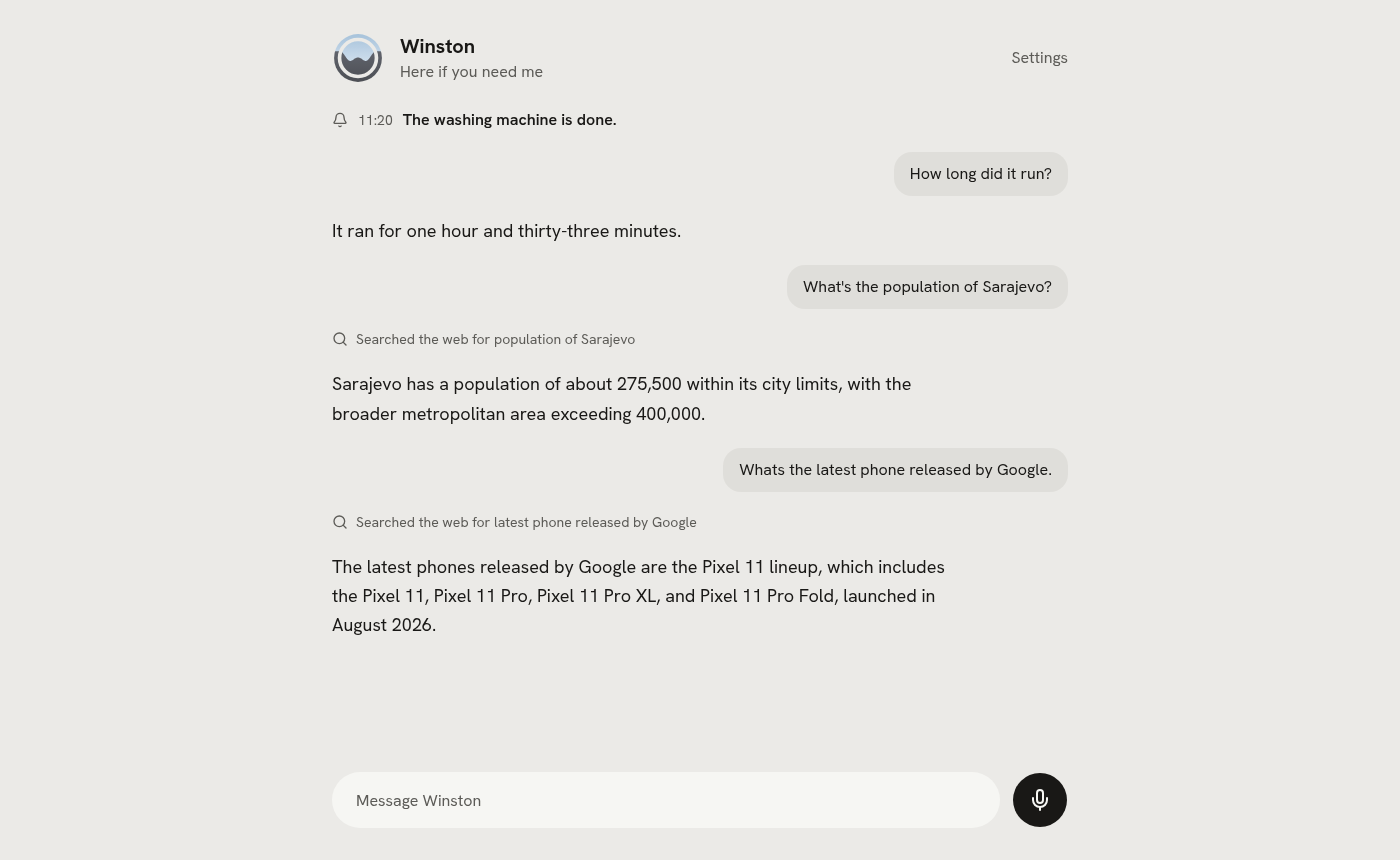
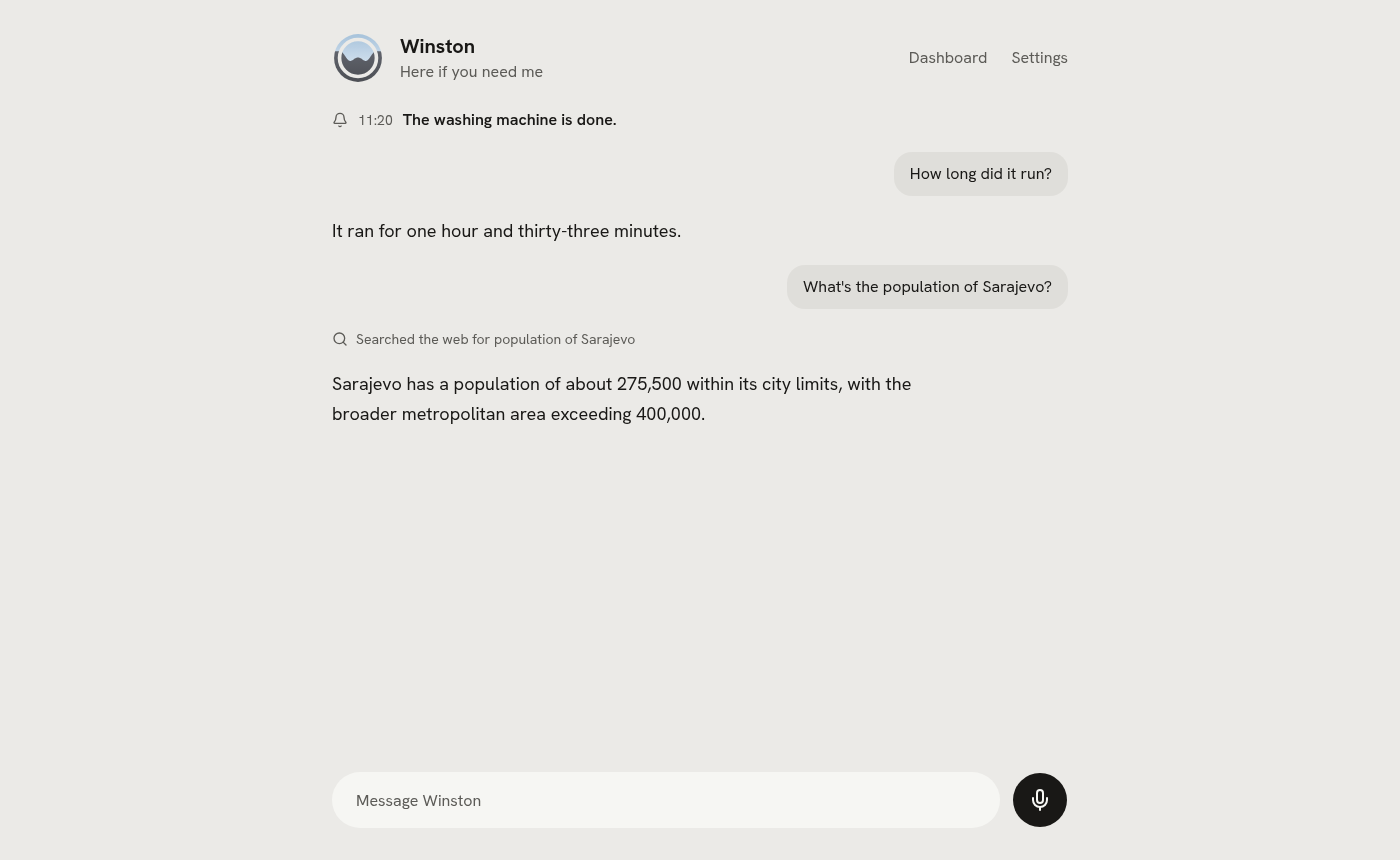
Dashboard mode: Winston full screen for a wall tablet
/dashboard shows the logo large as the talk button, a line for his state,
the last exchange while he is busy (and 20 s after) and announcements
across the screen for a minute or until tapped. The page keeps the screen
awake where the browser allows it. The Talk page links to it. Docs say how
to put it in a Home Assistant Webpage card; screenshots now come from a
scripted feed.

Changed region(s): [[0.2457, 0.6047, 0.6757, 0.7558], [0.5221, 0.5442, 0.7371, 0.5744], [0.645, 0.0605, 0.7064, 0.0907]]

diff --git a/web/src/pages/dashboard.tsx b/web/src/pages/dashboard.tsx
@@ -1,0 +1,95 @@
+import { useCallback, useEffect, useState } from 'react'
+import { Bell } from 'lucide-react'
+import { Link } from 'react-router'
+import { toast } from 'sonner'
+import { STATE_LABEL, clock, lastChange, presence, useLive, type Item } from '@/api/live'
+import { Presence } from '@/components/presence'
+import { useVoice } from '@/hooks/use-voice'
+import { useWakeLock } from '@/hooks/use-wake-lock'
+
+const LINGER_SECS = 20 // the last exchange stays up this long after he goes idle
+const ANNOUNCE_SECS = 60 // an announcement holds the screen this long unless tapped away
+const TAIL = 240 // characters of a long reply kept on screen, the newest ones
+
+type Said = Extract<Item, { kind: 'user' | 'reply' }>
+
+/** The newest thing you said and his answer to it, if he has started one. */
+function lastExchange(items: Item[]): { user?: Said; reply?: Said } {
+  const reply = items.findLastIndex((item) => item.kind === 'reply' && item.text.trim() !== '')
+  const user = items.findLastIndex((item) => item.kind === 'user')
+  return {
+    user: user >= 0 ? (items[user] as Said) : undefined,
+    reply: reply > user ? (items[reply] as Said) : undefined,
+  }
+}
+
+const tail = (text: string) => (text.length > TAIL ? `...${text.slice(-TAIL).replace(/^\S*\s/, '')}` : text)
+
+/** Template: dashboard. Full screen for a wall tablet: the mark large (it is the talk button), one
+ * line for his state, his words while he speaks, announcements taking the screen. */
+export default function DashboardPage() {
+  const feed = useLive()
+  const [now, setNow] = useState(() => Date.now())
+  const [dismissed, setDismissed] = useState('')
+  const onVoiceError = useCallback((message: string) => toast.error(message), [])
+  const { status: voice, start, stop } = useVoice(onVoiceError)
+  useWakeLock()
+
+  useEffect(() => {
+    const timer = setInterval(() => setNow(Date.now()), 1000)
+    return () => clearInterval(timer)
+  }, [])
+
+  const state = presence(feed, now)
+  const seconds = now / 1000
+  const announcement = feed.items.findLast((item) => item.kind === 'announcement')
+  const showAnnouncement =
+    announcement?.kind === 'announcement' && announcement.id !== dismissed && seconds - announcement.ts < ANNOUNCE_SECS
+  const recent = state !== 'idle' || seconds - lastChange(feed) < LINGER_SECS
+  const { user, reply } = recent ? lastExchange(feed.items) : {}
+  const line = voice === 'connecting' ? 'Connecting' : voice === 'off' && state === 'idle' ? 'Tap to talk' : STATE_LABEL[state]
+
+  return (
+    <div className="relative flex h-svh flex-col items-center overflow-hidden px-6 text-center">
+      <Link to="/" className="absolute top-6 right-6 text-muted-foreground hover:text-foreground">
+        Close
+      </Link>
+
+      {showAnnouncement ? (
+        <button
+          type="button"
+          onClick={() => setDismissed(announcement.id)}
+          aria-label="Dismiss the announcement"
+          className="flex flex-1 flex-col items-center justify-center gap-8"
+        >
+          <Presence state={state} className="size-[min(22svh,40vw)]" />
+          <span className="flex items-center gap-3 text-2xl text-muted-foreground">
+            <Bell className="size-7" />
+            {clock(announcement.ts)}
+          </span>
+          <p className="max-w-5xl text-6xl/tight font-semibold text-balance">{announcement.text}</p>
+        </button>
+      ) : (
+        <>
+          <div className="flex flex-1 items-end justify-center pt-16 pb-8">
+            <button
+              type="button"
+              aria-label={voice === 'off' ? 'Talk' : 'Stop talking'}
+              aria-pressed={voice !== 'off'}
+              disabled={voice === 'connecting'}
+              onClick={() => void (voice === 'off' ? start() : stop())}
+              className="rounded-full outline-none focus-visible:ring-4 focus-visible:ring-ring"
+            >
+              <Presence state={state} className="size-[min(36svh,60vw)]" />
+            </button>
+          </div>
+          <p className="text-3xl text-muted-foreground">{line}</p>
+          <div className="flex max-w-5xl flex-1 flex-col items-center gap-4 pt-8">
+            {user && <p className="text-2xl text-muted-foreground">{tail(user.text)}</p>}
+            {reply && <p className="text-4xl/snug text-balance">{tail(reply.text.trim())}</p>}
+          </div>
+        </>
+      )}
+    </div>
+  )
+}

diff --git a/web/src/pages/talk.tsx b/web/src/pages/talk.tsx
@@ -19,19 +19,12 @@ import {
 import { Link } from 'react-router'
 import { toast } from 'sonner'
 import { $api, errorText } from '@/api/client'
-import { presence, useChat, useLive, type Item, type PresenceState } from '@/api/live'
+import { STATE_LABEL, clock, presence, useChat, useLive, type Item } from '@/api/live'
 import { Presence } from '@/components/presence'
 import { Button } from '@/components/ui/button'
 import { Input } from '@/components/ui/input'
 import { useVoice } from '@/hooks/use-voice'
 import { cn } from '@/lib/utils'
-
-const STATE_LABEL: Record<PresenceState, string> = {
-  idle: 'Here if you need me',
-  listening: 'Listening',
-  thinking: 'Thinking',
-  speaking: 'Speaking',
-}
 
 const TOOL_ICONS: [(base: string) => boolean, LucideIcon][] = [
   [(b) => b.startsWith('hass'), Lightbulb],
@@ -49,8 +42,6 @@ function ToolIcon({ name, running }: { name: string; running: boolean }) {
   const Icon = TOOL_ICONS.find(([match]) => match(base))?.[1] ?? Wrench
   return <Icon className="size-4 shrink-0" />
 }
-
-const clock = (ts: number) => new Date(ts * 1000).toLocaleTimeString([], { hour: '2-digit', minute: '2-digit' })
 
 function Line({ item }: { item: Item }) {
   switch (item.kind) {
@@ -127,6 +118,9 @@ export default function TalkPage() {
           <span className="text-muted-foreground">{STATE_LABEL[state]}</span>
         </div>
         <nav className="ml-auto flex gap-6">
+          <Link to="/dashboard" className="text-muted-foreground hover:text-foreground">
+            Dashboard
+          </Link>
           <Link to="/status" className="text-muted-foreground hover:text-foreground">
             Settings
           </Link>

diff --git a/web/src/api/live.ts b/web/src/api/live.ts
@@ -3,6 +3,16 @@ import { $api, type LiveEvent } from './client'
 
 export type PresenceState = NonNullable<LiveEvent['state']>
 
+export const STATE_LABEL: Record<PresenceState, string> = {
+  idle: 'Here if you need me',
+  listening: 'Listening',
+  thinking: 'Thinking',
+  speaking: 'Speaking',
+}
+
+/** A server timestamp (seconds) as a local time of day. */
+export const clock = (ts: number) => new Date(ts * 1000).toLocaleTimeString([], { hour: '2-digit', minute: '2-digit' })
+
 export type Item =
   | { kind: 'user'; id: string; text: string; channel: string }
   | { kind: 'reply'; id: string; text: string; done: boolean }
@@ -59,6 +69,11 @@ export function presence(feed: Feed, now: number): PresenceState {
   const latest = Object.values(feed.states).sort((a, b) => b.ts - a.ts)[0]
   if (!latest || (latest.state !== 'idle' && now / 1000 - latest.ts > STALE_SECS)) return 'idle'
   return latest.state
+}
+
+/** When any channel last changed state, in server seconds; 0 if none has. */
+export function lastChange(feed: Feed): number {
+  return Math.max(0, ...Object.values(feed.states).map((s) => s.ts))
 }
 
 /** The live feed: recent history on connect, then events as they happen. A reconnect resends the

diff --git a/web/src/hooks/use-wake-lock.ts b/web/src/hooks/use-wake-lock.ts
@@ -1,0 +1,22 @@
+import { useEffect } from 'react'
+
+/** Keeps the screen on while the page is visible, for a wall tablet. Browsers only allow it on
+ * HTTPS or localhost; elsewhere it quietly does nothing. */
+export function useWakeLock() {
+  useEffect(() => {
+    let lock: WakeLockSentinel | undefined
+    const request = () => {
+      if (document.visibilityState !== 'visible' || !('wakeLock' in navigator)) return
+      navigator.wakeLock.request('screen').then(
+        (sentinel) => (lock = sentinel),
+        () => undefined,
+      )
+    }
+    request()
+    document.addEventListener('visibilitychange', request)
+    return () => {
+      document.removeEventListener('visibilitychange', request)
+      void lock?.release()
+    }
+  }, [])
+}

diff --git a/web/src/App.tsx b/web/src/App.tsx
@@ -4,6 +4,7 @@ import { SidebarInset, SidebarProvider } from '@/components/ui/sidebar'
 import AssistantPage from '@/pages/assistant'
 import BrainPage from '@/pages/brain'
 import ChannelsPage from '@/pages/channels'
+import DashboardPage from '@/pages/dashboard'
 import EnginePage from '@/pages/engine'
 import EnginesPage from '@/pages/engines'
 import HomeAssistantPage from '@/pages/home-assistant'
@@ -30,6 +31,7 @@ export default function App() {
   return (
     <Routes>
       <Route path="/" element={<TalkPage />} />
+      <Route path="/dashboard" element={<DashboardPage />} />
       <Route element={<SettingsLayout />}>
         <Route path="/status" element={<StatusPage />} />
         <Route path="/models" element={<ModelsPage />} />

diff --git a/docs/decisions.md b/docs/decisions.md
@@ -72,3 +72,4 @@ One line per deviation from `WINSTON_PLAN.md`: date, what changed, why.
 - 2026-09-23: Home Assistant integration planned as a conversation agent plus entities, installable from HACS, after dashboard mode. It is a text channel into Winston's brain; the voice path stays with Winston because HA's conversation API is text, one turn at a time, and would drop the cloned voice, streaming and barge-in. `docs/voice-pe.md`'s "never an Assist replacement" still holds.
 - 2026-09-23: Talk page built on a live feed in winstond (`core/live.py`, `GET/POST /api/live`), web chat as a channel inside winstond (`channels/web.py`, `POST /api/chat`), and `@pipecat-ai/client-js` 1.13.1 with `@pipecat-ai/small-webrtc-transport` 1.10.8 for the talk button (the prebuilt client's own libraries), its offer proxied through `/api/voice/offer`. Settings moved from `/` to `/status` and friends. Pipecat pushes function-call frames both upstream and downstream as two frames, so the feed dedupes tool events by call id, as the tool log already did. Gotcha: Chromium's `scrollIntoView` now returns a Promise, so an arrow-bodied `useEffect` returning it crashed React on unmount.
 - 2026-09-23: Winston's logo chosen and built (`docs/identity.md`): a disc split by a soft W, sky above and charcoal below, an inset rim, a gentle shade in each field. Chosen by Aldin over several rounds of sketches. Rejected: an even-weight circle and line ("boring", "barely a logo"), calligraphic pen strokes ("cheap"), green ("android-y, no identity"), navy and gold ("too heavy, luxury"), near-black that vanished on dark backgrounds, and any bending of the W while speaking (it read as wonky); speaking is a glow in the lower field instead. The ring-of-dots placeholder is gone; the UI guide's one-accent and no-gradient rules make the logo the one exception. Announcing is designed but waits for a live announcing state.
+- 2026-09-23: Dashboard mode built at `/dashboard` (plan UI track step 2). The logo is the talk button; only the last exchange is shown, not the scrolling conversation, and it clears 20 s after he goes idle so a wall screen rests on the logo; announcements hold the screen 60 s. Screen Wake Lock keeps a tablet awake (HTTPS or localhost only). Docs screenshots now come from a scripted live feed in Playwright, so they show a fixed example conversation rather than whatever the house said last.

diff --git a/docs/plan.md b/docs/plan.md
@@ -197,7 +197,7 @@ The web UI started as settings only. Winston himself moves to the front; setting
 3. **Home Assistant integration, installable from HACS.** Winston as a conversation agent (HA's Assist chat and the HA app reach Winston's brain, text only; voice stays with Winston), his state as entities, later a native card. Needs winstond reachable from HA on the LAN with a token.
 - Winston's logo is his presence (built 2026-09-23, `docs/identity.md`): it replaced the placeholder ring of dots on the Talk page and in the favicon.
 - Browsers only give the mic to HTTPS pages or localhost, so talking from a phone or tablet needs HTTPS on the LAN (a reverse proxy with a certificate). Showing the dashboard does not.
-- **Status: Talk page built 2026-09-23.** Typed turns stream into the page with tool lines (a follow-up to an announcement answered from its context, 2.3 s; a web search turn 5.3 s); the talk button connects through winstond and the voice greeting drives the presence to speaking (checked in headless Chromium with a fake mic). Not yet checked: a spoken turn with a real mic showing in the feed. Discord and `winston talk` do not publish to the feed yet.
+- **Status: Talk page and dashboard mode built 2026-09-23.** Dashboard at `/dashboard`: the logo large as the talk button, a state line, the last exchange while he is busy and 20 s after, announcements full screen for 60 s or until tapped; checked in headless Chromium in landscape and portrait against a scripted feed, not yet on a real wall tablet. Typed turns stream into the page with tool lines (a follow-up to an announcement answered from its context, 2.3 s; a web search turn 5.3 s); the talk button connects through winstond and the voice greeting drives the presence to speaking (checked in headless Chromium with a fake mic). Not yet checked: a spoken turn with a real mic showing in the feed. Discord and `winston talk` do not publish to the feed yet.
 
 ---
 

diff --git a/docs/running.md b/docs/running.md
@@ -34,6 +34,19 @@ after `channels.web.session_idle_mins` (30) and after a settings save. Browsers 
 few hundred events while winstond runs; it is not a transcript archive (the tool log is the record).
 
 <picture>
+  <source media="(prefers-color-scheme: dark)" srcset="images/dashboard-dark.png">
+  <img src="images/dashboard-light.png" alt="Dashboard mode: Winston's logo large, speaking, with the question and his answer under it" width="720">
+</picture>
+
+Dashboard mode, at http://localhost:8700/dashboard (the Dashboard link on the Talk page), is the
+same feed full screen for a wall tablet. Tap the logo to talk and again to hang up. The line under it
+follows his state; what you said and his answer show while he is busy and for 20 seconds after. An
+announcement takes the screen for a minute, or until you tap it. The page asks the browser to keep
+the screen on, which like the mic only works on `localhost` or HTTPS. To show it in Home Assistant,
+add a Webpage card pointing at the dashboard URL; if Home Assistant itself is on HTTPS, the browser
+blocks a plain `http://` page inside it, so Winston needs HTTPS too.
+
+<picture>
   <source media="(prefers-color-scheme: dark)" srcset="images/status-dark.png">
   <img src="images/status-light.png" alt="The Status page: engines, their health and the GPU" width="720">
 </picture>

diff --git a/docs/identity.md b/docs/identity.md
@@ -2,8 +2,8 @@
 
 <img src="images/logo.svg" alt="Winston's logo" width="120">
 
-Winston's logo is also his presence: the mark in the Talk page header, the favicon, later the thing that
-fills a wall screen in dashboard mode and the light pattern on a Voice PE. Every page draws him through
+Winston's logo is also his presence: the mark in the Talk page header, the talk button that fills a
+wall screen in dashboard mode, the favicon, and later the light pattern on a Voice PE. Every page draws him through
 one component, `web/src/components/presence.tsx`, so he looks and moves the same everywhere.
 
 ## The mark
@@ -42,7 +42,7 @@ a still. Once Winston is idle and settled the animation stops, so an idle page c
 ## Where it shows
 
 - Talk page header, next to the name and the state.
+- Dashboard mode, large, as the talk button.
 - The browser tab (favicon) and the README.
-- Planned: dashboard mode, large, as the talk button; a Home Assistant card through the planned
-  integration (`docs/plan.md`); the Voice PE's 12 lights, upper lights sky and lower lights charcoal,
+- Planned: a Home Assistant card through the planned integration (`docs/plan.md`); the Voice PE's 12 lights, upper lights sky and lower lights charcoal,
   the lower ones brightening when he speaks (`docs/voice-pe.md`).

diff --git a/docs/ui-guide.md b/docs/ui-guide.md
@@ -1,6 +1,6 @@
 # UI guide
 
-The web UI has two areas. **Winston** is the front: the Talk page and, later, dashboard mode. It is
+The web UI has two areas. **Winston** is the front: the Talk page and dashboard mode. It is
 where you talk to him and see what he did. **Settings** is behind it: status, models, engines and the
 config forms. Both use one component library and no hand-written CSS beyond theme tokens.
 
@@ -35,7 +35,10 @@ transport), connecting through winstond to the voice channel.
 - His presence is his logo, one component, `Presence`, driven by his state (idle, listening,
   thinking, speaking); see [identity](identity.md). Pages never draw their own version of it.
 - Voice and typing sit side by side at the bottom: a text field and one round talk button.
-- Links to Settings are plain text at the top right, not a sidebar.
+- Links to Dashboard and Settings are plain text at the top right, not a sidebar.
+- Dashboard mode shows the logo large as the talk button, one line for his state, the last exchange
+  in large type and announcements across the screen; a plain Close link at the top right is its only
+  control besides the logo.
 
 ## Settings
 

diff --git a/README.md b/README.md
@@ -22,6 +22,8 @@ be swapped for a hosted service when that suits you better.
   (measured headless; barge-in timing is not measured yet).
 - **A Talk page.** Type or talk to Winston in the browser and see what he heard, said and did,
   announcements included; his logo moves as he listens, thinks and speaks. Settings sit behind it.
+- **A wall dashboard.** Full screen for a tablet: tap the logo to talk, his answer in large type,
+  announcements across the screen.
 - **Remembers.** Tell it a fact and a fresh conversation still knows it; stored as Markdown in git.
 - **Looks things up.** Small current facts through web search, hard questions handed to Claude, both
   capped per day.
